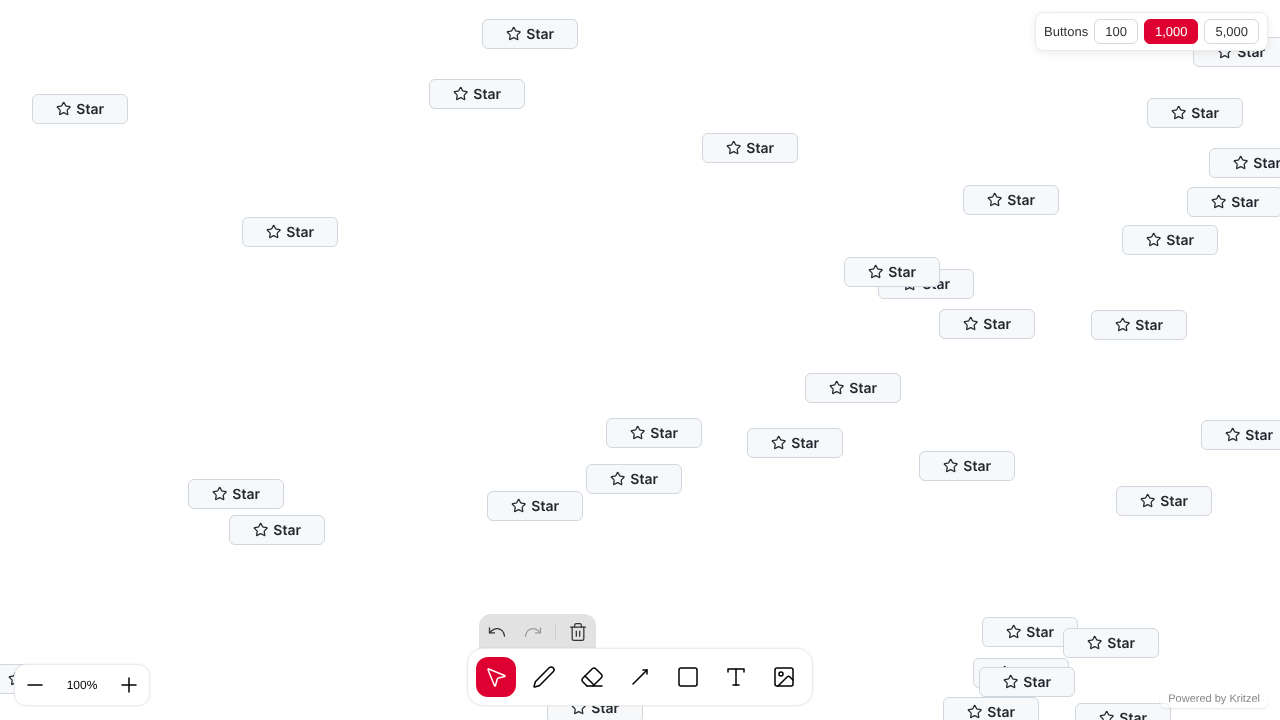
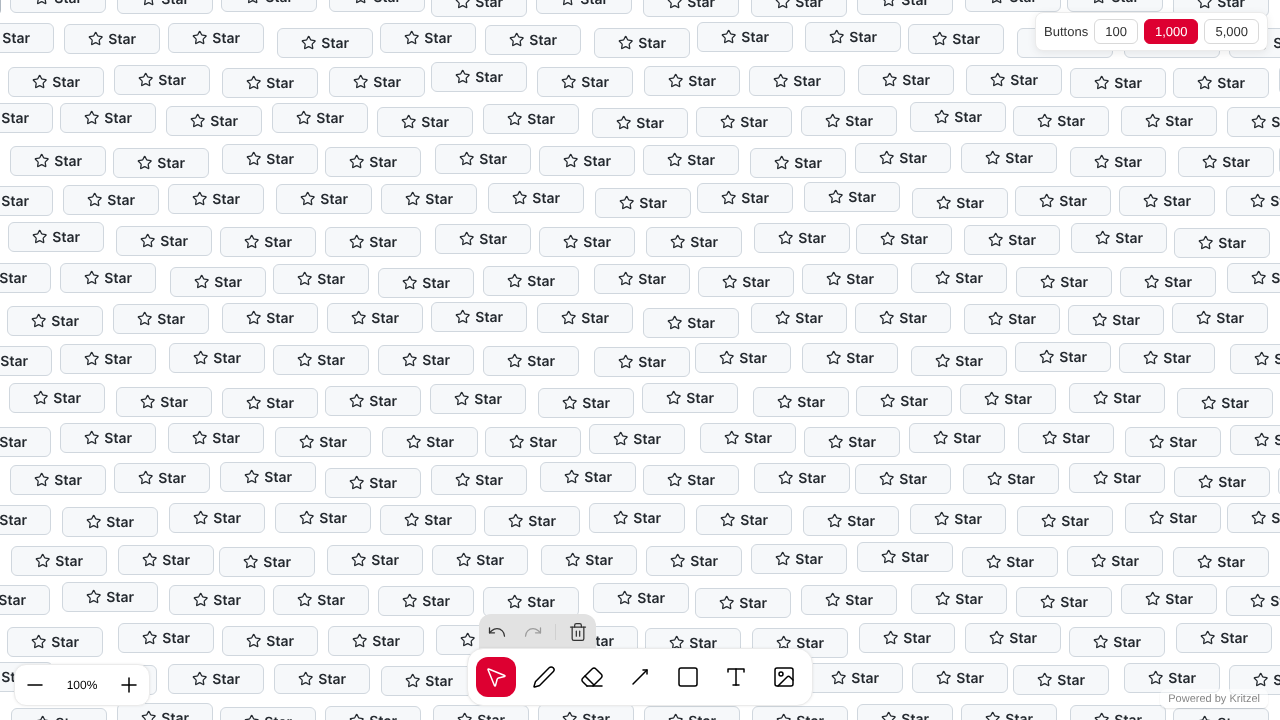
Pack GitHub Stars buttons densely around the initial viewport
Replace the random scatter over 8000 x 5000 with a brick grid filled
outward from the world origin, so the first screen is full of buttons
for every count (about 240 visible at 1,000 and 5,000, all 100 at 100).
The seeded generator still drives the edge shape and a small jitter, so
all three frameworks keep the same layout. Docs and the visual
baselines are updated to match.

Claude-Session: https://claude.ai/code/session_01XRZVhGNDwXjtNMsqZnr7de

diff --git a/apps/demos/angular/src/app/pages/examples/github-star-button.ts b/apps/demos/angular/src/app/pages/examples/github-star-button.ts
@@ -6,10 +6,13 @@ export const GITHUB_REPO_URL = 'https://github.com/kasual1/kritzel';
 export const STAR_COUNTS = [100, 1000, 5000] as const;
 export const DEFAULT_STAR_COUNT = 1000;
 
-const BOARD_WIDTH = 8000;
-const BOARD_HEIGHT = 5000;
 const STAR_WIDTH = 96;
 const STAR_HEIGHT = 30;
+// Buttons sit on a brick grid with small gaps, filled outward from the center of the initial viewport.
+const CELL_WIDTH = STAR_WIDTH + 10;
+const CELL_HEIGHT = STAR_HEIGHT + 10;
+const BOARD_ASPECT = 16 / 9;
+const MAX_JITTER = 3;
 const LAYOUT_SEED = 20240611;
 // Screen pixels the pointer may travel between down and up and still count as a click.
 const CLICK_TOLERANCE = 4;
@@ -147,11 +150,33 @@ export function createGithubStarObject(x: number, y: number): KritzelDynamicObje
   return object;
 }
 
+/**
+ * Packs `count` buttons as densely as the grid allows around the world origin (the center of
+ * the initial viewport), so the first screen looks equally crowded for every count; larger
+ * counts only grow the board outward. The seeded generator keeps the layout identical on
+ * every load and in every framework.
+ */
 export function createGithubStarObjects(count: number): KritzelDynamicObject[] {
   const random = createSeededRandom(LAYOUT_SEED);
-  return Array.from({ length: count }, () => {
-    const x = Math.round(random() * (BOARD_WIDTH - STAR_WIDTH) - BOARD_WIDTH / 2);
-    const y = Math.round(random() * (BOARD_HEIGHT - STAR_HEIGHT) - BOARD_HEIGHT / 2);
-    return createGithubStarObject(x, y);
+  const boardWidth = Math.sqrt(count * CELL_WIDTH * CELL_HEIGHT * BOARD_ASPECT);
+  const halfColumns = Math.ceil(boardWidth / 2 / CELL_WIDTH) + 2;
+  const halfRows = Math.ceil(boardWidth / BOARD_ASPECT / 2 / CELL_HEIGHT) + 2;
+
+  const cells: Array<{ x: number; y: number; distance: number }> = [];
+  for (let row = -halfRows; row <= halfRows; row++) {
+    for (let column = -halfColumns; column <= halfColumns; column++) {
+      const x = column * CELL_WIDTH + (row % 2 === 0 ? 0 : CELL_WIDTH / 2);
+      const y = row * CELL_HEIGHT;
+      // Rectangular rings in the board's aspect ratio; the random term roughens the board's edge.
+      const distance = Math.max(Math.abs(x), Math.abs(y) * BOARD_ASPECT) + random() * CELL_WIDTH;
+      cells.push({ x, y, distance });
+    }
+  }
+  cells.sort((first, second) => first.distance - second.distance);
+
+  return cells.slice(0, count).map(({ x, y }) => {
+    const jitterX = Math.round((random() * 2 - 1) * MAX_JITTER);
+    const jitterY = Math.round((random() * 2 - 1) * MAX_JITTER);
+    return createGithubStarObject(x - STAR_WIDTH / 2 + jitterX, y - STAR_HEIGHT / 2 + jitterY);
   });
 }

diff --git a/apps/demos/react/src/pages/examples/github-star-button.ts b/apps/demos/react/src/pages/examples/github-star-button.ts
@@ -6,10 +6,13 @@ export const GITHUB_REPO_URL = "https://github.com/kasual1/kritzel";
 export const STAR_COUNTS = [100, 1000, 5000] as const;
 export const DEFAULT_STAR_COUNT = 1000;
 
-const BOARD_WIDTH = 8000;
-const BOARD_HEIGHT = 5000;
 const STAR_WIDTH = 96;
 const STAR_HEIGHT = 30;
+// Buttons sit on a brick grid with small gaps, filled outward from the center of the initial viewport.
+const CELL_WIDTH = STAR_WIDTH + 10;
+const CELL_HEIGHT = STAR_HEIGHT + 10;
+const BOARD_ASPECT = 16 / 9;
+const MAX_JITTER = 3;
 const LAYOUT_SEED = 20240611;
 // Screen pixels the pointer may travel between down and up and still count as a click.
 const CLICK_TOLERANCE = 4;
@@ -147,11 +150,33 @@ export function createGithubStarObject(x: number, y: number): KritzelDynamicObje
   return object;
 }
 
+/**
+ * Packs `count` buttons as densely as the grid allows around the world origin (the center of
+ * the initial viewport), so the first screen looks equally crowded for every count; larger
+ * counts only grow the board outward. The seeded generator keeps the layout identical on
+ * every load and in every framework.
+ */
 export function createGithubStarObjects(count: number): KritzelDynamicObject[] {
   const random = createSeededRandom(LAYOUT_SEED);
-  return Array.from({ length: count }, () => {
-    const x = Math.round(random() * (BOARD_WIDTH - STAR_WIDTH) - BOARD_WIDTH / 2);
-    const y = Math.round(random() * (BOARD_HEIGHT - STAR_HEIGHT) - BOARD_HEIGHT / 2);
-    return createGithubStarObject(x, y);
+  const boardWidth = Math.sqrt(count * CELL_WIDTH * CELL_HEIGHT * BOARD_ASPECT);
+  const halfColumns = Math.ceil(boardWidth / 2 / CELL_WIDTH) + 2;
+  const halfRows = Math.ceil(boardWidth / BOARD_ASPECT / 2 / CELL_HEIGHT) + 2;
+
+  const cells: Array<{ x: number; y: number; distance: number }> = [];
+  for (let row = -halfRows; row <= halfRows; row++) {
+    for (let column = -halfColumns; column <= halfColumns; column++) {
+      const x = column * CELL_WIDTH + (row % 2 === 0 ? 0 : CELL_WIDTH / 2);
+      const y = row * CELL_HEIGHT;
+      // Rectangular rings in the board's aspect ratio; the random term roughens the board's edge.
+      const distance = Math.max(Math.abs(x), Math.abs(y) * BOARD_ASPECT) + random() * CELL_WIDTH;
+      cells.push({ x, y, distance });
+    }
+  }
+  cells.sort((first, second) => first.distance - second.distance);
+
+  return cells.slice(0, count).map(({ x, y }) => {
+    const jitterX = Math.round((random() * 2 - 1) * MAX_JITTER);
+    const jitterY = Math.round((random() * 2 - 1) * MAX_JITTER);
+    return createGithubStarObject(x - STAR_WIDTH / 2 + jitterX, y - STAR_HEIGHT / 2 + jitterY);
   });
 }

diff --git a/apps/demos/vue/src/pages/examples/github-star-button.ts b/apps/demos/vue/src/pages/examples/github-star-button.ts
@@ -6,10 +6,13 @@ export const GITHUB_REPO_URL = 'https://github.com/kasual1/kritzel'
 export const STAR_COUNTS = [100, 1000, 5000] as const
 export const DEFAULT_STAR_COUNT = 1000
 
-const BOARD_WIDTH = 8000
-const BOARD_HEIGHT = 5000
 const STAR_WIDTH = 96
 const STAR_HEIGHT = 30
+// Buttons sit on a brick grid with small gaps, filled outward from the center of the initial viewport.
+const CELL_WIDTH = STAR_WIDTH + 10
+const CELL_HEIGHT = STAR_HEIGHT + 10
+const BOARD_ASPECT = 16 / 9
+const MAX_JITTER = 3
 const LAYOUT_SEED = 20240611
 // Screen pixels the pointer may travel between down and up and still count as a click.
 const CLICK_TOLERANCE = 4
@@ -147,11 +150,33 @@ export function createGithubStarObject(x: number, y: number): KritzelDynamicObje
   return object
 }
 
+/**
+ * Packs `count` buttons as densely as the grid allows around the world origin (the center of
+ * the initial viewport), so the first screen looks equally crowded for every count; larger
+ * counts only grow the board outward. The seeded generator keeps the layout identical on
+ * every load and in every framework.
+ */
 export function createGithubStarObjects(count: number): KritzelDynamicObject[] {
   const random = createSeededRandom(LAYOUT_SEED)
-  return Array.from({ length: count }, () => {
-    const x = Math.round(random() * (BOARD_WIDTH - STAR_WIDTH) - BOARD_WIDTH / 2)
-    const y = Math.round(random() * (BOARD_HEIGHT - STAR_HEIGHT) - BOARD_HEIGHT / 2)
-    return createGithubStarObject(x, y)
+  const boardWidth = Math.sqrt(count * CELL_WIDTH * CELL_HEIGHT * BOARD_ASPECT)
+  const halfColumns = Math.ceil(boardWidth / 2 / CELL_WIDTH) + 2
+  const halfRows = Math.ceil(boardWidth / BOARD_ASPECT / 2 / CELL_HEIGHT) + 2
+
+  const cells: Array<{ x: number; y: number; distance: number }> = []
+  for (let row = -halfRows; row <= halfRows; row++) {
+    for (let column = -halfColumns; column <= halfColumns; column++) {
+      const x = column * CELL_WIDTH + (row % 2 === 0 ? 0 : CELL_WIDTH / 2)
+      const y = row * CELL_HEIGHT
+      // Rectangular rings in the board's aspect ratio; the random term roughens the board's edge.
+      const distance = Math.max(Math.abs(x), Math.abs(y) * BOARD_ASPECT) + random() * CELL_WIDTH
+      cells.push({ x, y, distance })
+    }
+  }
+  cells.sort((first, second) => first.distance - second.distance)
+
+  return cells.slice(0, count).map(({ x, y }) => {
+    const jitterX = Math.round((random() * 2 - 1) * MAX_JITTER)
+    const jitterY = Math.round((random() * 2 - 1) * MAX_JITTER)
+    return createGithubStarObject(x - STAR_WIDTH / 2 + jitterX, y - STAR_HEIGHT / 2 + jitterY)
   })
 }

diff --git a/apps/website/docs/angular/examples/github-stars.md b/apps/website/docs/angular/examples/github-stars.md
@@ -29,7 +29,7 @@ This example makes use of the following core concepts. Click on the links below 
 
 ## Infinite Board of Star Buttons
 
-The board starts with 1,000 buttons spread over roughly 8000 × 5000 world units. Zoom out to see them overlap, and zoom in to find open space. Clicking a button selects it and opens GitHub in a new tab; a selected button can be dragged, resized or deleted like any other object. The control in the top-right corner rebuilds the board with 100, 1,000 or 5,000 buttons.
+The board starts with 1,000 buttons packed tightly around the center of the first screen, so the initial view is full of buttons at every count; larger counts only make the board bigger. Pan to explore it, or zoom out to see the whole crowd at once. Clicking a button selects it and opens GitHub in a new tab; a selected button can be dragged, resized or deleted like any other object. The control in the top-right corner rebuilds the board with 100, 1,000 or 5,000 buttons.
 
 :::info Clicks versus drags
 The button is a plain `div`, not a `<button>`, so the engine treats every press on it as a canvas interaction: selecting, moving and resizing keep working. The renderer opens the link itself, and only when the pointer moved less than a few pixels between `pointerdown` and `pointerup`, so dragging never opens GitHub.
@@ -71,7 +71,7 @@ KritzelDynamicObjectRendererRegistry.register(GITHUB_STAR_RENDERER_KEY, {
 
 ### Creating the objects
 
-The object factory places each button with a small seeded random generator, so every load shows the same layout. Each object carries only the renderer key and a label in `rendererData`.
+The object factory fills a brick grid outward from the world origin, which is the center of the initial viewport, and uses a small seeded random generator for the uneven board edge and a few pixels of jitter, so every load shows the same layout. Each object carries only the renderer key and a label in `rendererData`.
 
 ```typescript
 export function createGithubStarObject(x: number, y: number): KritzelDynamicObject {

diff --git a/apps/website/docs/vue/examples/github-stars.md b/apps/website/docs/vue/examples/github-stars.md
@@ -29,7 +29,7 @@ This example makes use of the following core concepts. Click on the links below 
 
 ## Infinite Board of Star Buttons
 
-The board starts with 1,000 buttons spread over roughly 8000 × 5000 world units. Zoom out to see them overlap, and zoom in to find open space. Clicking a button selects it and opens GitHub in a new tab; a selected button can be dragged, resized or deleted like any other object. The control in the top-right corner rebuilds the board with 100, 1,000 or 5,000 buttons.
+The board starts with 1,000 buttons packed tightly around the center of the first screen, so the initial view is full of buttons at every count; larger counts only make the board bigger. Pan to explore it, or zoom out to see the whole crowd at once. Clicking a button selects it and opens GitHub in a new tab; a selected button can be dragged, resized or deleted like any other object. The control in the top-right corner rebuilds the board with 100, 1,000 or 5,000 buttons.
 
 :::info Clicks versus drags
 The button is a plain `div`, not a `<button>`, so the engine treats every press on it as a canvas interaction: selecting, moving and resizing keep working. The renderer opens the link itself, and only when the pointer moved less than a few pixels between `pointerdown` and `pointerup`, so dragging never opens GitHub.
@@ -74,7 +74,7 @@ onBeforeUnmount(() => {
 
 ### Creating the objects
 
-The object factory places each button with a small seeded random generator, so every load shows the same layout. Each object carries only the renderer key and a label in `rendererData`.
+The object factory fills a brick grid outward from the world origin, which is the center of the initial viewport, and uses a small seeded random generator for the uneven board edge and a few pixels of jitter, so every load shows the same layout. Each object carries only the renderer key and a label in `rendererData`.
 
 ```typescript
 export function createGithubStarObject(x: number, y: number): KritzelDynamicObject {

diff --git a/apps/website/docs/react/examples/github-stars.md b/apps/website/docs/react/examples/github-stars.md
@@ -29,7 +29,7 @@ This example makes use of the following core concepts. Click on the links below 
 
 ## Infinite Board of Star Buttons
 
-The board starts with 1,000 buttons spread over roughly 8000 × 5000 world units. Zoom out to see them overlap, and zoom in to find open space. Clicking a button selects it and opens GitHub in a new tab; a selected button can be dragged, resized or deleted like any other object. The control in the top-right corner rebuilds the board with 100, 1,000 or 5,000 buttons.
+The board starts with 1,000 buttons packed tightly around the center of the first screen, so the initial view is full of buttons at every count; larger counts only make the board bigger. Pan to explore it, or zoom out to see the whole crowd at once. Clicking a button selects it and opens GitHub in a new tab; a selected button can be dragged, resized or deleted like any other object. The control in the top-right corner rebuilds the board with 100, 1,000 or 5,000 buttons.
 
 :::info Clicks versus drags
 The button is a plain `div`, not a `<button>`, so the engine treats every press on it as a canvas interaction: selecting, moving and resizing keep working. The renderer opens the link itself, and only when the pointer moved less than a few pixels between `pointerdown` and `pointerup`, so dragging never opens GitHub.
@@ -78,7 +78,7 @@ useEffect(() => {
 
 ### Creating the objects
 
-The object factory places each button with a small seeded random generator, so every load shows the same layout. Each object carries only the renderer key and a label in `rendererData`.
+The object factory fills a brick grid outward from the world origin, which is the center of the initial viewport, and uses a small seeded random generator for the uneven board edge and a few pixels of jitter, so every load shows the same layout. Each object carries only the renderer key and a label in `rendererData`.
 
 ```tsx
 export function createGithubStarObject(x: number, y: number): KritzelDynamicObject {
